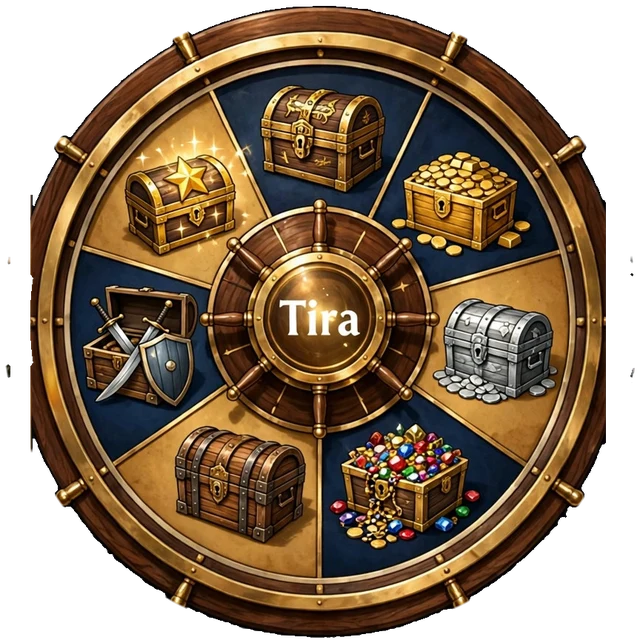
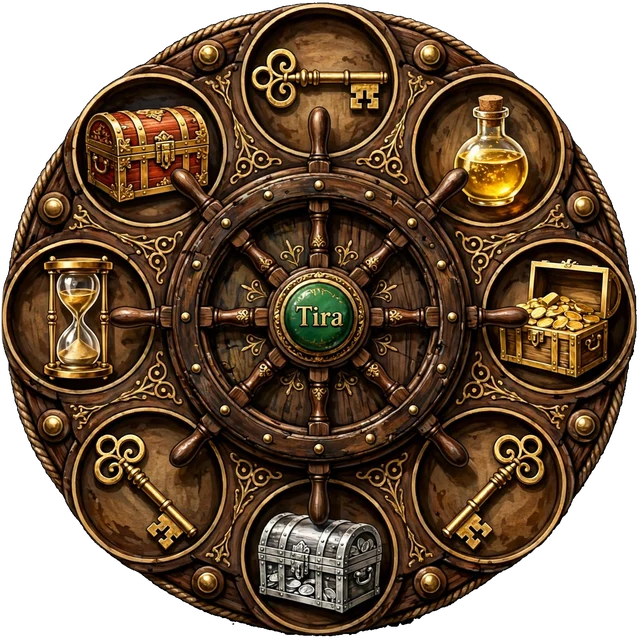
v6.93 ARREGLO: recargar sin edificios ya no empieza un reino nuevo (regalos repetidos); equipar sets en héroes con info del juego, lotes 3/5, nivel pedido, quitar con doble toque o mantener; regalar juego completo; ruleta con timón de 8 casillas y 3 llaves; cofres con tropas; piezas de set en ruleta
Claude-Session: https://claude.ai/code/session_017ZYQdcRur7QuxZTSyBQsVv

diff --git a/juego3d/js/juego.js b/juego3d/js/juego.js
@@ -6371,8 +6371,8 @@
     var b = { dano: 0, danoP: 0, vida: 0, def: 0, vel: 0, recarga: 0 };
     piezasDe(id).forEach(function (p) { for (var k in b) b[k] += valorPieza(p, k); });
     var deSet = piezasDe(id).filter(function (p) { return p.s === id; }).length;
-    if (deSet >= 3) b.danoP += 0.15;
-    if (deSet >= 6) { b.danoP += 0.15; b.def += 0.1; }
+    if (deSet >= 3) { b.danoP += 0.15; b.vida += 150; }
+    if (deSet >= 5) { b.danoP += 0.15; b.def += 0.1; }
     b.def = Math.min(0.5, b.def); b.recarga = Math.min(0.5, b.recarga);
     return b;
   }
@@ -6403,9 +6403,36 @@
   function rarezaAlAzar(nivel) { var r = Math.random(); return r < 0.03 + nivel * 0.006 ? 'legendario' : r < 0.25 + nivel * 0.02 ? 'raro' : 'comun'; }
   function costoMejoraPieza(p) { var m = MULT_RAREZA_EQ[p.r]; return { oro: Math.round(60 * m * Math.pow(p.n, 1.35)), piedra: Math.round(20 * m * p.n) }; }
   function oroAlFundir(p) { return Math.round(40 * MULT_RAREZA_EQ[p.r] * p.n); }
+  // v6.92: cada pieza pide un nivel del héroe; las del juego de torneo, más
+  var NIVEL_PIEZA = { comun: 1, raro: 10, legendario: 25, mitico: 40 };
+  function nivelPide(p) { return NIVEL_PIEZA[p.r] || 1; }
+  function nivelHeroe(id) { var e = estado.heroes[id]; return e ? (e.nivel || 1) : 0; }
+  var DESC_EQ = { arma: ['Un filo hecho para la primera fila.', 'A blade made for the front line.'], casco: ['Protege la cabeza en lo peor del combate.', 'Guards the head in the thick of battle.'], pechera: ['Placas firmes que aguantan golpe tras golpe.', 'Sturdy plates that take blow after blow.'], guantes: ['Agarre fuerte para pegar más duro.', 'A firm grip to hit harder.'], botas: ['Paso firme y rápido por cualquier terreno.', 'Swift, steady steps on any ground.'], amuleto: ['Un colgante con poder del mar.', 'A pendant holding the power of the sea.'] };
+  function abrirInfoPieza(p, id) {
+    var v = $('eq-info'); if (v) v.remove();
+    var d = document.createElement('div'); d.id = 'eq-info';
+    var pide = nivelPide(p), tiene = id ? nivelHeroe(id) : 0, set = p.s;
+    var h = '<div class="ei-caja"><button class="ei-x" id="ei-x">✕</button><div class="ei-cab"><span class="ei-ico ' + p.r + '">' + icoPieza(p) + '</span><div><h3>' + nombrePieza(p) + '</h3><small>' + T('eq_r_' + p.r) + ' · ' + T('nivel_corto') + ' ' + p.n + '</small></div></div>' +
+      '<p class="ei-num">' + textoPieza(p) + '</p><p class="nota">' + L(DESC_EQ[p.t][0], DESC_EQ[p.t][1]) + (set ? ' ' + L('Es parte del juego de ' + NH(set) + ' y solo la puede llevar ese héroe.', 'Part of ' + NH(set) + '\'s set; only that hero can wear it.') : '') + '</p>' +
+      (id ? '<p class="ei-req ' + (tiene >= pide ? 'ok' : 'no') + '">' + L('Nivel del héroe', 'Hero level') + ' Lv' + tiene + '/Lv' + pide + '</p>' : '');
+    if (set) {
+      var mias = piezas().filter(function (x) { return x.s === set; }), puestas = mias.filter(function (x) { return x.h === set; }).length;
+      h += '<div class="ei-set"><b>' + L('Juego ', 'Set ') + (ARMADURA_HEROE[set] ? ARMADURA_HEROE[set][estado.idioma === 'en' ? 'en' : 'es'] : '') + ' (' + puestas + '/6)</b><div class="ei-piezas">' + TIPOS_EQ.map(function (t) {
+        var x = mias.filter(function (q) { return q.t === t; })[0];
+        return '<span class="' + (x ? (x.h === set ? 'puesta' : 'tiene') : 'falta') + '">' + (EQ_SET_IMG[set] && EQ_SET_IMG[set][t] ? '<img src="iconos/ui/q_' + t + '_' + set + '.webp" alt="">' : EQ[t].icono) + '<small>' + T('eq_' + t) + '</small></span>';
+      }).join('') + '</div>' +
+        '<p class="' + (puestas >= 3 ? 'lote-on' : 'lote-off') + '">(3) ' + L('Lote: ataque +15%, salud +150', 'Set: attack +15%, health +150') + '</p>' +
+        '<p class="' + (puestas >= 5 ? 'lote-on' : 'lote-off') + '">(5) ' + L('Lote: ataque +15% más y defensa +10%', 'Set: attack +15% more and defense +10%') + '</p></div>';
+    }
+    d.innerHTML = h + '</div>';
+    document.body.appendChild(d);
+    $('ei-x').addEventListener('click', function () { sonar('click'); d.remove(); });
+    d.addEventListener('click', function (ev) { if (ev.target === d) d.remove(); });
+  }
   function equiparPieza(id, i) {
     var p = piezas().filter(function (x) { return x.i === i; })[0]; if (!p) return;
     if (p.s && p.s !== id) { consejoTemporal(L('Esta armadura es solo de ' + NH(p.s) + '.', 'This armor is only for ' + NH(p.s) + '.')); sonar('error'); return; }
+    if (nivelHeroe(id) < nivelPide(p)) { consejoTemporal(L('Nivel del héroe Lv' + nivelHeroe(id) + '/Lv' + nivelPide(p) + ': súbelo de nivel primero.', 'Hero level Lv' + nivelHeroe(id) + '/Lv' + nivelPide(p) + ': level up first.')); sonar('error'); return false; }
     piezasDe(id).forEach(function (x) { if (x.t === p.t) x.h = null; });
     p.h = id; sonar('martillo');
   }
@@ -6414,6 +6441,7 @@
     TIPOS_EQ.forEach(function (t) {
       var actual = piezasDe(id).filter(function (p) { return p.t === t; })[0];
       var mejor = piezas().filter(function (p) { return p.t === t && !p.h && (!p.s || p.s === id); }).sort(function (a, b) { return puntosPieza(b) - puntosPieza(a); })[0];
+      if (mejor && nivelHeroe(id) < nivelPide(mejor)) mejor = piezas().filter(function (p) { return p.t === t && !p.h && (!p.s || p.s === id) && nivelHeroe(id) >= nivelPide(p); }).sort(function (a, b) { return puntosPieza(b) - puntosPieza(a); })[0];
       if (mejor && (!actual || puntosPieza(mejor) > puntosPieza(actual))) { if (actual) actual.h = null; mejor.h = id; puso++; }
     });
     if (!puso) { consejoTemporal(T('eq_nada_que')); sonar('error'); return; }
@@ -6439,6 +6467,8 @@
     if (b.dano) partes.push('⚔ +' + Math.round(b.dano)); if (b.danoP) partes.push('⚔ +' + Math.round(b.danoP * 100) + '%'); if (b.vida) partes.push('❤ +' + Math.round(b.vida));
     if (b.def) partes.push('🛡 +' + Math.round(b.def * 100) + '%'); if (b.vel) partes.push('🏃 +' + Math.round(b.vel * 100) + '%'); if (b.recarga) partes.push('⏱ -' + Math.round(b.recarga * 100) + '%');
     h += '<p class="nota">' + T('eq_bonos', { t: partes.join(' · ') || '—' }) + ' · ' + T('eq_tienes', { n: piezas().length }) + '</p>';
+    h += '<p class="nota eq-ayuda">' + L('Toca un espacio para elegir pieza. Para quitarla, pulsa dos veces o déjala pulsada.', 'Tap a slot to choose a piece. To remove it, double-tap or press and hold.') + '</p>';
+    if (e && esCuentaDueno()) h += '<button class="comprar morado" data-accion="eq-dueno-set" data-id="' + id + '">👑 ' + L('Dueño: darme el juego ', 'Owner: give me set ') + (ARMADURA_HEROE[id] ? ARMADURA_HEROE[id][estado.idioma === 'en' ? 'en' : 'es'] : '') + '</button>';
     if (e) h += '<div class="hf-fila"><button class="comprar naranja" data-accion="eq-rapido" data-id="' + id + '">' + T('eq_rapido') + '</button><button class="comprar" data-accion="eq-quitar-todo" data-id="' + id + '">' + T('eq_quitar_todo') + '</button></div>';
     return h;
   }
@@ -6449,7 +6479,7 @@
     var lista = piezas().filter(function (p) { return p.t === t && p !== actual && (!p.s || p.s === id); }).sort(function (a, b) { return (a.h ? 1 : 0) - (b.h ? 1 : 0) || puntosPieza(b) - puntosPieza(a); });
     function fila(p, esActual) {
       var c = costoMejoraPieza(p);
-      return '<div class="eq-fila ' + p.r + '"><span class="eq-ico">' + icoPieza(p) + '</span><div class="ob-txt"><b>' + nombrePieza(p) + ' · ' + T('nivel_corto') + ' ' + p.n + '</b><span>' + textoPieza(p) + (p.h && !esActual ? ' · ' + T('eq_de', { n: NH(p.h) }) : '') + '</span></div><div class="eq-bts">' +
+      return '<div class="eq-fila ' + p.r + '"><span class="eq-ico" data-eq="info" data-i="' + p.i + '">' + icoPieza(p) + '</span><div class="ob-txt"><b>' + nombrePieza(p) + ' · ' + T('nivel_corto') + ' ' + p.n + '</b>' + (nivelHeroe(id) < nivelPide(p) ? '<em class="ei-req no">' + L('Nivel del héroe', 'Hero level') + ' Lv' + nivelHeroe(id) + '/Lv' + nivelPide(p) + '</em>' : '') + '<span>' + textoPieza(p) + (p.h && !esActual ? ' · ' + T('eq_de', { n: NH(p.h) }) : '') + '</span></div><div class="eq-bts">' +
         (esActual ? (p.n < EQ_NIVEL_MAX ? '<button class="comprar mini" data-eq="mejorar" data-i="' + p.i + '" data-costo=\'' + JSON.stringify(c) + '\'>⬆ ' + htmlCosto(c) + '</button>' : '') + '<button class="comprar mini" data-eq="quitar" data-i="' + p.i + '">' + T('eq_quitar') + '</button>'
           : '<button class="comprar mini naranja" data-eq="equipar" data-i="' + p.i + '">' + T('eq_equipar') + '</button>' + (p.h ? '' : '<button class="comprar mini" data-eq="fundir" data-i="' + p.i + '">🔥</button>')) + '</div></div>';
     }
@@ -6462,8 +6492,9 @@
       if (ev.target === d) { d.remove(); abrirPanelHeroe(id); return; }
       var b = ev.target.closest('[data-eq]'); if (!b || b.disabled) return;
       var que = b.getAttribute('data-eq'), p = piezas().filter(function (x) { return x.i === b.getAttribute('data-i'); })[0]; if (!p) return;
+      if (que === 'info') { sonar('click'); abrirInfoPieza(p, id); return; }
       if (que !== 'fundir') marcarEqAntes(id);
-      if (que === 'equipar') { equiparPieza(id, p.i); ponerEquipo(); guardar(true); d.remove(); abrirPanelHeroe(id); return; }
+      if (que === 'equipar') { if (equiparPieza(id, p.i) === false) return; ponerEquipo(); guardar(true); d.remove(); abrirPanelHeroe(id); return; }
       if (que === 'quitar') { p.h = null; sonar('click'); ponerEquipo(); guardar(true); d.remove(); abrirPanelHeroe(id); return; }
       if (que === 'mejorar') { if (p.n >= EQ_NIVEL_MAX || !pagar(costoMejoraPieza(p))) return; p.n++; sonar('martillo'); consejoTemporal(T('eq_mejorada', { n: nombrePieza(p), v: p.n }) + ' · ' + T('poder_subio', { n: formatoNumero(calcularPoder()) })); ponerEquipo(); actualizarHUD(); guardar(true); abrirHueco(id, t); return; }
       if (que === 'fundir') {
@@ -6474,6 +6505,25 @@
       }
     });
   }
+  (function () {
+    var tmr = null, saltar = false, ult = { t: 0, el: null };
+    function quitar(el) {
+      var id = el.getAttribute('data-id'), t = el.getAttribute('data-t'), p = piezasDe(id).filter(function (x) { return x.t === t; })[0];
+      if (!p) return false; marcarEqAntes(id); p.h = null; sonar('click'); consejoTemporal(L('Quitaste: ', 'Removed: ') + nombrePieza(p)); ponerEquipo(); guardar(true); abrirPanelHeroe(id); return true;
+    }
+    document.addEventListener('pointerdown', function (ev) { var el = ev.target.closest && ev.target.closest('.eq-hueco'); if (!el) return; clearTimeout(tmr); tmr = setTimeout(function () { if (quitar(el)) saltar = true; }, 600); }, true);
+    ['pointerup', 'pointercancel', 'pointerleave'].forEach(function (n) { document.addEventListener(n, function () { clearTimeout(tmr); }, true); });
+    document.addEventListener('click', function (ev) {
+      var el = ev.target.closest && ev.target.closest('.eq-hueco');
+      // el segundo toque cae encima de la ventanita que abrió el primero: cuenta igual como doble toque
+      if (!el && ult.ref && Date.now() - ult.t < 400 && ev.target.closest && ev.target.closest('#eq-elegir')) { ev.stopPropagation(); ev.preventDefault(); var v0 = $('eq-elegir'); if (v0) v0.remove(); var r0 = ult.ref; ult = { t: 0, el: null }; if (document.body.contains(r0)) quitar(r0); return; }
+      if (!el) return;
+      if (saltar) { saltar = false; ev.stopPropagation(); ev.preventDefault(); return; }
+      var ahora = Date.now();
+      if (ult.el === el.getAttribute('data-t') && ahora - ult.t < 350) { ev.stopPropagation(); ev.preventDefault(); var v = $('eq-elegir'); if (v) v.remove(); quitar(el); ult = { t: 0, el: null }; return; }
+      ult = { t: ahora, el: el.getAttribute('data-t'), ref: el };
+    }, true);
+  })();
   // ---------- HABILIDADES CON NIVEL ----------
   // Poder (activo): nivel 1..5, cada estrella abre un nivel. Talento (pasivo por clase): se abre con 2★, nivel máximo = estrellas - 1.
   var HAB_MAX = 5;
@@ -7756,7 +7806,7 @@
   setInterval(function () { try { if (!enMenu) vipDia(); } catch (e) {} }, 60000);
   // ---------- v6.84: REGALOS DEL DUEÑO (MaikelR) A CUALQUIER JUGADOR ----------
   // Solo la cuenta del dueño puede enviarlos (lo comprueban también las reglas de la nube).
-  var rgElegido = null, rgLista = [];
+  var rgElegido = null, rgLista = [], rgSetCompleto = false;
   var RG_TIPOS_TROPA = TROPAS_ORDEN.filter(function (t) { return TROPAS[t] && t !== 'heroe'; });
   function htmlRegalar() {
     var en = estado.idioma === 'en';
@@ -7771,7 +7821,9 @@
       '<h4>🧰 ' + L('Equipo de héroe', 'Hero gear') + '</h4><div class="rg-rejilla">' +
       '<label class="rg-celda"><span>' + L('Pieza', 'Piece') + '</span><select class="campo" id="rg-eq-t"><option value="">' + L('Al azar', 'Random') + '</option>' + TIPOS_EQ.map(function (t) { return '<option value="' + t + '">' + EQ[t].emoji + ' ' + T('eq_' + t) + '</option>'; }).join('') + '</select></label>' +
       '<label class="rg-celda"><span>' + L('Rareza', 'Rarity') + '</span><select class="campo" id="rg-eq-r">' + ['comun', 'raro', 'legendario', 'mitico'].map(function (r) { return '<option value="' + r + '"' + (r === 'legendario' ? ' selected' : '') + '>' + T('rareza_' + r) + '</option>'; }).join('') + '</select></label>' +
-      '<label class="rg-celda"><span>' + L('Cantidad', 'Amount') + '</span><input class="campo" id="rg-eq-n" type="number" min="0" max="30" inputmode="numeric" placeholder="0"></label></div>' +
+      '<label class="rg-celda"><span>' + L('Cantidad', 'Amount') + '</span><input class="campo" id="rg-eq-n" type="number" min="0" max="30" inputmode="numeric" placeholder="0"></label>' +
+      '<label class="rg-celda"><span>' + L('Juego de héroe', 'Hero set') + '</span><select class="campo" id="rg-eq-s"><option value="">' + L('Ninguno (pieza normal)', 'None (normal piece)') + '</option>' + Object.keys(ARMADURA_HEROE).map(function (k) { return '<option value="' + k + '">' + NH(k) + ' · ' + ARMADURA_HEROE[k][en ? 'en' : 'es'] + '</option>'; }).join('') + '</select></label></div>' +
+      '<button class="comprar morado" data-accion="rg-set-completo">👑 ' + L('Regalar el juego completo (6 piezas) del héroe elegido', 'Gift the full 6-piece set of the chosen hero') + '</button>' +
       '<h4>💰 ' + L('Gemas y recursos', 'Gems and resources') + '</h4><div class="rg-rejilla">' +
       ['gemas', 'oro', 'comida', 'madera', 'piedra'].map(function (r) { return '<label class="rg-celda"><span>' + ICONO_RECURSO[r] + ' ' + (r === 'gemas' ? L('Gemas', 'Gems') : T('r_' + r) || r) + '</span><input class="campo rg-r" data-r="' + r + '" type="number" min="0" max="10000000" inputmode="numeric" placeholder="0"></label>'; }).join('') + '</div>' +
       '<input class="campo" id="rg-nota" maxlength="120" placeholder="' + L('Mensaje (opcional)', 'Message (optional)') + '">' +
@@ -7790,6 +7842,7 @@
     abrirPanel('🎁 ' + L('Regalos del dueño', 'Owner gifts'), htmlRegalar(), { tipo: 'regalo' });
     // v6.90: busca solo al escribir (y con Enter), sin depender del botón
     var cb = $('rg-busca'), tmo = null;
+    var bb = document.querySelector('#panel [data-accion=rg-buscar]'); if (bb) bb.addEventListener('pointerup', function (ev) { ev.preventDefault(); if (cb) cb.blur(); buscarParaRegalo(); });
     if (cb) { cb.addEventListener('input', function () { clearTimeout(tmo); tmo = setTimeout(buscarParaRegalo, 450); }); cb.addEventListener('keydown', function (ev) { if (ev.key === 'Enter') { ev.preventDefault(); buscarParaRegalo(); } }); }
   }
   function buscarParaRegalo() {
@@ -7816,13 +7869,16 @@
     var rec = {}, gemas = 0;
     document.querySelectorAll('#panel .rg-r').forEach(function (i) { var n = Math.min(10000000, Math.max(0, Math.floor(+i.value || 0))); if (!n) return; if (i.getAttribute('data-r') === 'gemas') gemas = Math.min(100000, n); else rec[i.getAttribute('data-r')] = n; });
     var pz = [], ne = Math.min(30, Math.max(0, Math.floor(+$('rg-eq-n').value || 0)));
-    for (var k = 0; k < ne; k++) pz.push({ t: $('rg-eq-t').value || TIPOS_EQ[Math.floor(Math.random() * TIPOS_EQ.length)], r: $('rg-eq-r').value || 'comun' });
+    var sj = $('rg-eq-s') ? $('rg-eq-s').value : '';
+    if (rgSetCompleto && sj) { pz = TIPOS_EQ.map(function (t) { return { t: t, r: 'mitico', s: sj }; }); ne = 0; }
+    rgSetCompleto = false;
+    for (var k = 0; k < ne; k++) { var pq = { t: $('rg-eq-t').value || TIPOS_EQ[Math.floor(Math.random() * TIPOS_EQ.length)], r: sj ? 'mitico' : ($('rg-eq-r').value || 'comun') }; if (sj) pq.s = sj; pz.push(pq); }
     if (!nt && !gemas && !pz.length && !Object.keys(rec).length) { consejoTemporal(L('Elige al menos una cosa para regalar.', 'Choose at least one thing to give.')); sonar('error'); return; }
     var b = document.querySelector('#panel .rg-enviar'); if (b) b.disabled = true;
     Cuentas.enviarRegalo({ de: Cuentas.usuario().uid, deNombre: Cuentas.nombrePublico(), para: rgElegido.uid, paraNombre: String(rgElegido.nombre).slice(0, 30),
       tropas: tropasR, piezas: pz, gemas: gemas, recursos: rec, nota: String(($('rg-nota') && $('rg-nota').value) || '').slice(0, 120), fecha: Date.now() })
       .then(function () { sonar('magia'); consejoTemporal('🎁 ' + L('¡Regalo enviado a ', 'Gift sent to ') + escaparHTML(rgElegido.nombre) + '!'); abrirRegalar(); })
-      .catch(function () { if (b) b.disabled = false; consejoTemporal(L('No se pudo enviar. Revisa tu internet (y que las reglas nuevas de la nube estén publicadas).', 'Could not send. Check your internet (and that the new cloud rules are published).')); sonar('error'); });
+      .catch(function (er) { if (b) b.disabled = false; rgSetCompleto = false; if (er && er.code === 'permission-denied') { consejoTemporal(L('La nube dijo «sin permiso»: faltan publicar las reglas de regalos (firebase deploy --only firestore:rules en la carpeta nube).', 'Cloud said permission denied: publish the gift rules.')); return; } consejoTemporal(L('No se pudo enviar (' + ((er && er.code) || '?') + '). Revisa tu internet (y que las reglas nuevas de la nube estén publicadas).', 'Could not send. Check your internet (and that the new cloud rules are published).')); sonar('error'); });
   }
   var regalosRecibiendo = false;
   function recibirRegalos() {
@@ -7834,7 +7890,7 @@
         Cuentas.borrarRegalo(g.id).then(function () {
           var partes = [], t = g.tropas || {}, nt = 0;
           Object.keys(t).forEach(function (k) { var n = Math.min(100000, Math.floor(+t[k] || 0)); if (!TROPAS[k] || n <= 0) return; reserva()[k] = (reserva()[k] || 0) + n; nt += n; partes.push(n + ' ' + (TROPAS[k].icono || '') + ' ' + N(k)); });
-          (g.piezas || []).slice(0, 30).forEach(function (p) { if (EQ[p.t] && MULT_RAREZA_EQ[p.r]) darPieza(p.t, p.r); });
+          (g.piezas || []).slice(0, 30).forEach(function (p) { if (EQ[p.t] && MULT_RAREZA_EQ[p.r]) { var np = darPieza(p.t, p.r); if (np && p.s && ARMADURA_HEROE[p.s]) np.s = p.s; } });
           if ((g.piezas || []).length) partes.push((g.piezas || []).length + ' 🧰 ' + L('piezas de equipo', 'gear pieces'));
           var gm = Math.min(100000, Math.floor(+g.gemas || 0)); if (gm > 0) { estado.gemas = (estado.gemas || 0) + gm; partes.push(gm + ' 💎'); }
           var r = g.recursos || {}; ['oro', 'comida', 'madera', 'piedra'].forEach(function (k) { var n = Math.min(10000000, Math.floor(+r[k] || 0)); if (n > 0) { sumarRecurso(k, n); partes.push(n + ' ' + ICONO_RECURSO[k]); } });
@@ -8148,9 +8204,13 @@
   // 8 casillas; 2 dan llaves. Con 5 llaves se abre el Cofre del Galeón (el premio gordo).
   var RULETA = [
     // v6.89: el timón de la Capitana (iconos/ui/rul_timon.webp): 7 cofres en el orden del dibujo, empezando arriba y en el sentido del reloj
-    { k: 'cofre_acel', p: 16 }, { k: 'cofre_oro', p: 12 }, { k: 'cofre_plata', p: 22 }, { k: 'cofre_tesoro', p: 6 },
-    { k: 'cofre_madera', p: 24 }, { k: 'cofre_equipo', p: 10 }, { k: 'cofre_mejora1', p: 10 }
+    // v6.92: el timón nuevo de Maikel: 8 casillas desde arriba en el sentido del reloj, con 3 llaves
+    { k: 'llave', p: 2.5 }, { k: 'inv_8h', p: 15 }, { k: 'cofre_tesoro', p: 6 }, { k: 'llave', p: 2.5 },
+    { k: 'cofre_plata', p: 28 }, { k: 'llave', p: 2.5 }, { k: 'acel_8h', p: 18 }, { k: 'cofre_oro', p: 18.5 }
   ];
+  var RUL_SIN_LLAVE_MAX = 20; // una llave más o menos cada 13 tiradas, y seguro una cada 20
+  var SETS_RULETA = ['sol', 'luna', 'ancla'], RUL_PIEZA = 0.02; // de vez en cuando, una pieza del Alba, Estelar o del Mar Hondo
+  function piezaDeSet(set) { var tiene = piezas().filter(function (p) { return p.s === set; }).map(function (p) { return p.t; }), faltan = TIPOS_EQ.filter(function (t) { return tiene.indexOf(t) < 0; }); var t = (faltan.length ? faltan : TIPOS_EQ)[Math.floor(Math.random() * (faltan.length || TIPOS_EQ.length))]; var p = darPieza(t, 'mitico'); if (p) p.s = set; return p; }
   var RUL_LLAVE = 0.06; // la llave del Galeón sale de regalo de vez en cuando (6%), y seguro una cada 25 tiradas
   var GALEON = { estrella_mar: 1, caracola: 2, cofre_oro: 2, acel_8h: 1 }, GALEON_GEMAS = 50;
   var RUL_FICHAS = 3, RUL_GEMAS = 15;
@@ -8190,9 +8250,12 @@
     else if (!pagar(0, RUL_GEMAS * n)) return;
     var r = estadoRuleta(a.id), ganados = [], idx = [];
     for (var i = 0; i < n; i++) {
-      var j = sortearRuleta(), s = RULETA[j]; idx.push(j);
-      estado.mochila[s.k] = (estado.mochila[s.k] || 0) + 1; ganados.push({ ico: OBJETOS[s.k].icono, nom: N(s.k), cat: subcatObjeto(s.k) });
-      if (Math.random() < RUL_LLAVE || r.sinLlave >= 24) { r.sinLlave = 0; r.llaves++; ganados.push({ ico: '<img class="ico-obj" src="iconos/ui/o_llave.webp" alt="🗝">', nom: L('Llave del Galeón', 'Galleon Key'), dest: L('Abajo, en la Ruleta', 'Below, in the Wheel') }); }
+      var j = sortearRuleta();
+      if (RULETA[j].k !== 'llave' && r.sinLlave >= RUL_SIN_LLAVE_MAX - 1) j = [0, 3, 5][Math.floor(Math.random() * 3)];
+      var s = RULETA[j]; idx.push(j);
+      if (s.k !== 'llave') { estado.mochila[s.k] = (estado.mochila[s.k] || 0) + 1; ganados.push({ ico: OBJETOS[s.k].icono, nom: N(s.k), cat: subcatObjeto(s.k) }); }
+      if (Math.random() < RUL_PIEZA) { var pz = piezaDeSet(SETS_RULETA[Math.floor(Math.random() * SETS_RULETA.length)]); if (pz) ganados.push({ ico: icoPieza(pz), nom: nombrePieza(pz), cat: L('Equipo', 'Gear'), gordo: true }); }
+      if (s.k === 'llave') { r.sinLlave = 0; r.llaves++; ganados.push({ ico: '<img class="ico-obj" src="iconos/ui/o_llave.webp" alt="🗝">', nom: L('Llave del Galeón', 'Galleon Key'), dest: L('Abajo, en la Ruleta', 'Below, in the Wheel') }); }
       else r.sinLlave++;
     }
     guardar(true); actualizarHUD();
@@ -8209,6 +8272,7 @@
     var veces = Math.floor(r.llaves / 5); r.llaves -= veces * 5; // v6.88: con 10, 15… llaves se abren todos los galeones a la vez
     var l = [{ ico: '<img class="ico-obj" src="iconos/ui/o_galeon.webp" alt="🎁">', nom: L('Cofre del Galeón', 'Galleon Chest') + (veces > 1 ? ' ×' + veces : ''), gordo: true }];
     Object.keys(GALEON).forEach(function (k) { estado.mochila[k] = (estado.mochila[k] || 0) + GALEON[k] * veces; l.push({ ico: OBJETOS[k].icono, nom: N(k) + ' ×' + GALEON[k] * veces, cat: subcatObjeto(k) }); });
+    for (var gv = 0; gv < veces; gv++) { var gp = piezaDeSet(SETS_RULETA[Math.floor(Math.random() * SETS_RULETA.length)]); if (gp) l.push({ ico: icoPieza(gp), nom: nombrePieza(gp), cat: L('Equipo', 'Gear'), gordo: true }); }
     estado.gemas = (estado.gemas || 0) + GALEON_GEMAS * veces; l.push({ ico: '💎', nom: GALEON_GEMAS * veces + ' ' + L('gemas', 'gems'), dest: L('Arriba, en tus gemas', 'Top bar, your gems') });
     guardar(true); actualizarHUD();
     var c = document.querySelector('.rul-cofre'); if (c) c.classList.add('abriendo');
@@ -8413,6 +8477,7 @@
       if (o.paquete) Object.keys(o.paquete).forEach(function (q) { objs[q] = (objs[q] || 0) + o.paquete[q]; });
       if (o.mejora) o.mejora.forEach(function (r) { pzs.push(darPieza(null, r)); });
       if (o.equipo) pzs.push(darPieza(null, Math.random() < 0.2 ? 'legendario' : 'raro'));
+      if (TROPAS_COFRE[k]) { var tq = TROPAS_COFRE[k][Math.floor(Math.random() * TROPAS_COFRE[k].length)]; tot.tropas = tot.tropas || {}; tot.tropas[tq[0]] = (tot.tropas[tq[0]] || 0) + tq[1]; }
       (EXTRA_COFRE[k] || []).forEach(function (e) { if (Math.random() >= e[2]) return; if (e[0] === 'pieza') pzs.push(darPieza(null, e[1])); else objs[e[0]] = (objs[e[0]] || 0) + e[1]; });
     }
     pzs = pzs.filter(Boolean);
@@ -8421,10 +8486,11 @@
     chispas(castilloPos.clone().setY(6), 0xffe14a, 24, 5); sonar('gemas');
     guardar(true); reabrirPanel();
     var p = {}; Object.keys(tot).forEach(function (r) { p[r] = tot[r]; }); p.objetos = objs;
+    var tropasG = tot.tropas; delete tot.tropas;
     var items = premioAItems(p), porR = {};
     if (pzs.length <= 3) pzs.forEach(function (pz) { items.push({ ico: icoPieza(pz), nom: nombrePieza(pz), n: 1 }); });
     else { pzs.forEach(function (pz) { porR[pz.r] = (porR[pz.r] || 0) + 1; }); Object.keys(porR).forEach(function (r) { items.push({ ico: EQ.pechera.icono, nom: L('Armaduras y armas ', 'Armor and weapons ') + ({ comun: L('comunes', 'common'), raro: L('raras', 'rare'), legendario: L('legendarias', 'legendary'), mitico: L('míticas', 'mythic') }[r] || r), n: porR[r] }); }); }
-    mostrarRecompensas(N(k) + (n > 1 ? ' ×' + formatoNumero(n) : ''), items, function () { if (Object.keys(tot).length) darPremio(tot); guardar(true); actualizarHUD(); reabrirPanel(); });
+    mostrarRecompensas(N(k) + (n > 1 ? ' ×' + formatoNumero(n) : ''), items, function () { if (tropasG) tot.tropas = tropasG; if (Object.keys(tot).length) darPremio(tot); guardar(true); actualizarHUD(); reabrirPanel(); });
   }
   // ---------- TIENDA ----------
   var pestTienda = 'acelerar';
@@ -8437,6 +8503,7 @@
     if (o.paquete) Object.keys(o.paquete).forEach(function (q) { l.push([OBJETOS[q].icono, N(q), '×' + o.paquete[q]]); });
     if (o.mejora) o.mejora.forEach(function (r) { l.push(['🧰', L('Pieza de equipo ', 'Equipment piece ') + T('eq_r_' + r), '×1']); });
     if (o.equipo) l.push(['🧰', L('Pieza de equipo rara (20% legendaria)', 'Rare equipment piece (20% legendary)'), '×1']);
+    if (TROPAS_COFRE[k]) l.push(['⚔', L('Tropas: ', 'Troops: ') + TROPAS_COFRE[k].map(function (x) { return x[1] + ' ' + N(x[0]); }).join(L(' o ', ' or ')), L('siempre una', 'always one')]);
     (EXTRA_COFRE[k] || []).forEach(function (e) { var pr = Math.round(e[2] * 100) + '%'; if (e[0] === 'pieza') l.push([EQ.pechera.icono, L('Armadura o arma ', 'Armor or weapon ') + nomRarezaEq(e[1]), L('a veces ', 'sometimes ') + pr]); else if (OBJETOS[e[0]]) l.push([OBJETOS[e[0]].icono, N(e[0]) + (e[1] > 1 ? ' ×' + e[1] : ''), L('a veces ', 'sometimes ') + pr]); });
     if (o.da) Object.keys(o.da).forEach(function (r) { l.push([ICONO_RECURSO[r], T('r_' + r), formatoNumero(o.da[r])]); });
     if (o.tropas) Object.keys(o.tropas).forEach(function (t) { l.push([TROPAS[t].icono, N(t), '×' + o.tropas[t]]); });
@@ -8456,6 +8523,7 @@
     cofre_oro: [['pieza', 'comun', 0.3], ['pieza', 'raro', 0.04], ['acel_8h', 1, 0.3], ['libro_gra', 1, 0.3], ['escudo_8h', 1, 0.15]],
     cofre_tesoro: [['pieza', 'comun', 0.4], ['pieza', 'raro', 0.1], ['acel_24h', 1, 0.4], ['libro_gra', 2, 0.5], ['caracola', 1, 0.3]]
   };
+  var TROPAS_COFRE = { cofre_madera: [['miliciano', 5], ['arquero', 5], ['explorador', 3]], cofre_plata: [['espadachin', 6], ['arquero', 8], ['jinete', 5]], cofre_oro: [['caballeria', 8], ['guardian', 8], ['espadachin', 12]], cofre_tesoro: [['caballeria_pesada', 10], ['balista', 4], ['catapulta', 3]] };
   function nomRarezaEq(r) { return { comun: L('común', 'common'), raro: L('rara', 'rare'), legendario: L('legendaria', 'legendary'), mitico: L('mítica', 'mythic') }[r] || r; }
   function htmlContenido(k) {
     var l = contenidoObjeto(k);
@@ -8959,6 +9027,7 @@
     if (a === 'rg-buscar') { sonar('click'); buscarParaRegalo(); return; }
     if (a === 'rg-elegir') { sonar('click'); rgElegido = { uid: b.getAttribute('data-uid'), nombre: b.getAttribute('data-nombre') }; var bq = $('rg-busca') ? $('rg-busca').value : ''; abrirRegalar(); if ($('rg-busca')) $('rg-busca').value = bq; return; }
     if (a === 'rg-enviar') { enviarRegalo(); return; }
+    if (a === 'rg-set-completo') { if (!$('rg-eq-s') || !$('rg-eq-s').value) { consejoTemporal(L('Elige primero el juego de héroe.', 'Choose the hero set first.')); sonar('error'); return; } rgSetCompleto = true; enviarRegalo(); return; }
     if (a === 'construir') {
       var tipo = b.getAttribute('data-tipo');
       if (slotElegido !== null && !slots[slotElegido].edificio && !slots[slotElegido].obra) construir(slotElegido, tipo);
@@ -9098,6 +9167,7 @@
     else if (a === 'sub-salon') { sonar('click'); abrirSalonCaballeros(); }
     else if (a === 'salon-exp') { sonar('click'); unLibroCaballero(b.getAttribute('data-id')); }
     else if (a === 'salon-equipar') { sonar('click'); pestanaHeroe = 'equipo'; abrirPanelHeroe(b.getAttribute('data-id')); }
+    else if (a === 'eq-dueno-set') { if (!esCuentaDueno()) return; var ids = b.getAttribute('data-id'); TIPOS_EQ.forEach(function (t) { if (!piezas().some(function (p) { return p.s === ids && p.t === t; })) { var np = darPieza(t, 'mitico'); if (np) np.s = ids; } }); sonar('magia'); guardar(true); abrirPanelHeroe(ids); }
     else if (a === 'eq-quitar-todo') { var idq = b.getAttribute('data-id'); marcarEqAntes(idq); piezasDe(idq).forEach(function (p) { p.h = null; }); sonar('click'); ponerEquipo(); guardar(true); abrirPanelHeroe(idq); }
     else if (a === 'tal-subir') subirHab(b.getAttribute('data-id'), true);
     else if (a === 'heroe-obtener') abrirPanelObtener(b.getAttribute('data-id'));
@@ -9526,7 +9596,7 @@
     if (window.Cuentas && Cuentas.usuario() && partidaNube && (!g || (partidaNube.actualizado || 0) > (g.actualizado || 0))) g = partidaNube;
     // Sin cartel de bienvenida: con la sesión lista se entra directo al reino.
     // Idioma y cerrar sesión están siempre arriba, junto a los recursos.
-    var hayPartida = g && (g.oleada > 1 || g.alianza || g.alLocal || (g.edificios || []).some(function (e) { return e; }));
+    var hayPartida = g && typeof g.monedas === 'number'; // v6.92 ARREGLO: antes, sin edificios hechos, cada recarga empezaba un reino nuevo (y regalaba todo otra vez)
     empezarPartida(hayPartida ? g : null);
     if (nube && Cuentas.usuario()) consejoTemporal(T('hola', { n: Cuentas.nombre() }) + (esCuentaDueno() ? ' 👑' : ''));
     actualizarBotonSalir();

diff --git a/juego3d/css/estilo.css b/juego3d/css/estilo.css
@@ -2063,3 +2063,21 @@ html body #panel .visor-tropa.pintada.r1 img { filter: drop-shadow(0 0 10px #6fd
 html body #panel .visor-tropa.pintada.r2 img { filter: drop-shadow(0 0 12px #4fa3ff) drop-shadow(0 6px 8px rgba(0,0,0,.6)); }
 html body #panel .visor-tropa.pintada.r3 img { filter: drop-shadow(0 0 14px #c06bff) drop-shadow(0 6px 8px rgba(0,0,0,.6)); }
 html body #panel .visor-tropa.pintada.r4 img { filter: drop-shadow(0 0 16px #ffcf3a) drop-shadow(0 6px 8px rgba(0,0,0,.6)) saturate(1.15); }
+
+/* v6.92: información de la pieza y su juego */
+#eq-info { position: fixed; inset: 0; z-index: 9700; background: rgba(0,0,0,.55); display: flex; align-items: flex-end; justify-content: center; }
+#eq-info .ei-caja { position: relative; width: 100%; max-width: 520px; max-height: 86vh; overflow-y: auto; background: linear-gradient(180deg,#f6e7c4,#e5cc95); border: 3px solid #8a5a22; border-bottom: 0; border-radius: 18px 18px 0 0; padding: 14px 16px calc(18px + env(safe-area-inset-bottom)); color: #3a2610; animation: umDesdeAbajo .3s ease-out; }
+#eq-info .ei-x { position: absolute; top: 8px; right: 8px; width: 38px; height: 38px; border-radius: 50%; border: 2px solid #5a3410; background: #b8452e; color: #fff; font: 900 18px system-ui; }
+#eq-info .ei-cab { display: flex; gap: 12px; align-items: center; padding-right: 40px; }
+#eq-info .ei-ico img { width: 72px; height: 72px; object-fit: contain; }
+#eq-info h3 { margin: 0; font: 900 19px Georgia, serif; color: #5a3410; } #eq-info .ei-cab small { font-weight: 800; color: #7a4a12; }
+#eq-info .ei-num { font: 900 16px system-ui; margin: 8px 0 2px; }
+.ei-req { font-weight: 900; } .ei-req.no { color: #c0261a !important; display: block; font-style: normal; } .ei-req.ok { color: #2f7a20; }
+#eq-info .ei-set { margin-top: 8px; background: rgba(255,255,255,.4); border: 1px solid #b08a4a; border-radius: 12px; padding: 8px; }
+#eq-info .ei-piezas { display: grid; grid-template-columns: repeat(6, 1fr); gap: 4px; margin: 6px 0; }
+#eq-info .ei-piezas span { display: flex; flex-direction: column; align-items: center; font-size: 10px; text-align: center; }
+#eq-info .ei-piezas img { width: 42px; height: 42px; object-fit: contain; }
+#eq-info .ei-piezas .falta { opacity: .35; filter: grayscale(1); } #eq-info .ei-piezas .puesta small { color: #2f7a20; font-weight: 900; }
+#eq-info .lote-on { color: #2f7a20; font-weight: 900; margin: 2px 0; } #eq-info .lote-off { color: #7a6a50; margin: 2px 0; }
+.eq-fila .eq-ico[data-eq] { cursor: pointer; }
+#eq-info .nota { background: none !important; color: #3a2610 !important; border: 0 !important; padding: 0 !important; }

diff --git a/juego3d/sw.js b/juego3d/sw.js
@@ -1,6 +1,6 @@
 // Tiny Kingdom se juega solo con internet: no se guarda nada para jugar sin conexión.
 // Cambia VERSION cada vez que publiques una versión nueva del juego.
-var VERSION = 'tinykingdom-v6.92';
+var VERSION = 'tinykingdom-v6.93';
 
 self.addEventListener('install', function () { self.skipWaiting(); });
 

diff --git a/juego3d/js/datos.js b/juego3d/js/datos.js
@@ -3,7 +3,7 @@
 //  Para cambiar el nombre del juego, cambia NOMBRE_JUEGO.
 // =====================================================================
 
-var VERSION_JUEGO = '6.92';
+var VERSION_JUEGO = '6.93';
 var NOMBRE_JUEGO = 'Tiny Kingdom';
 
 // ---------------- Modo DUEÑO (solo para pruebas) ----------------
